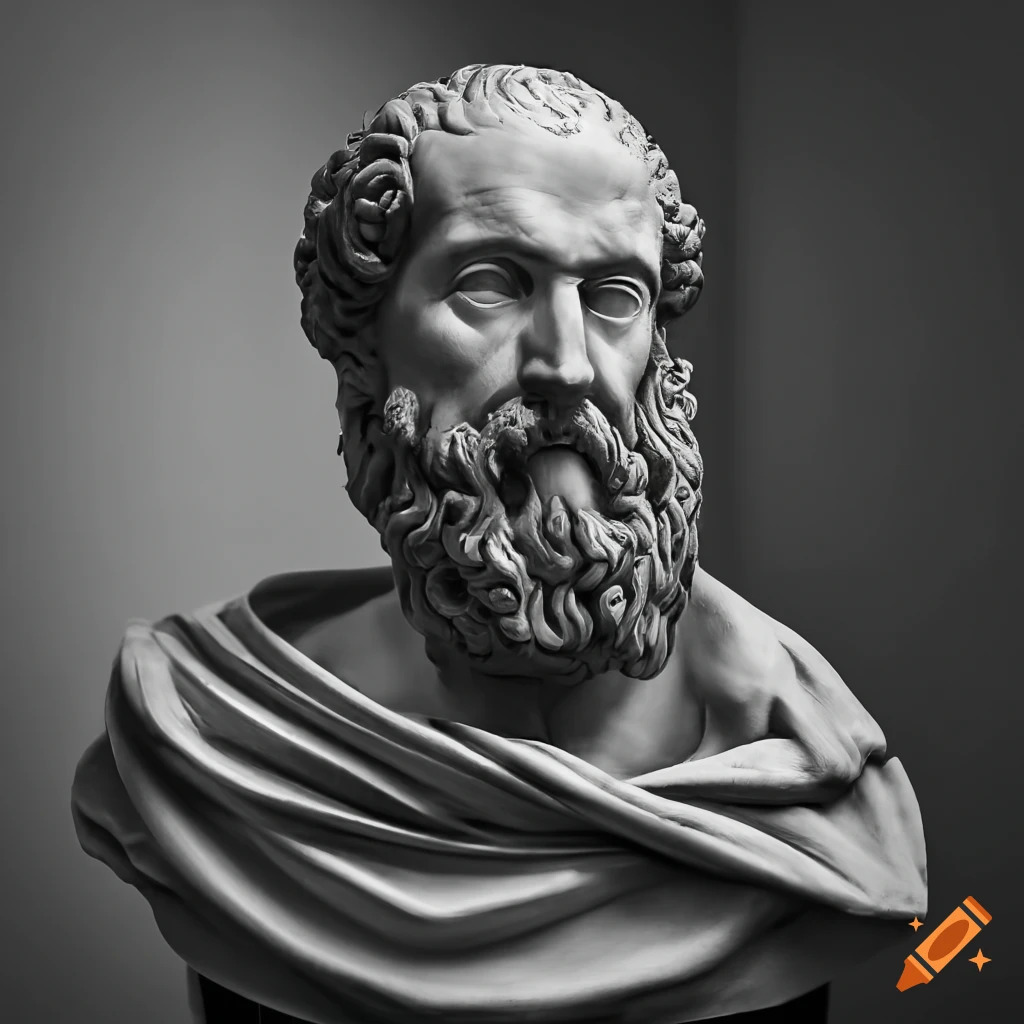
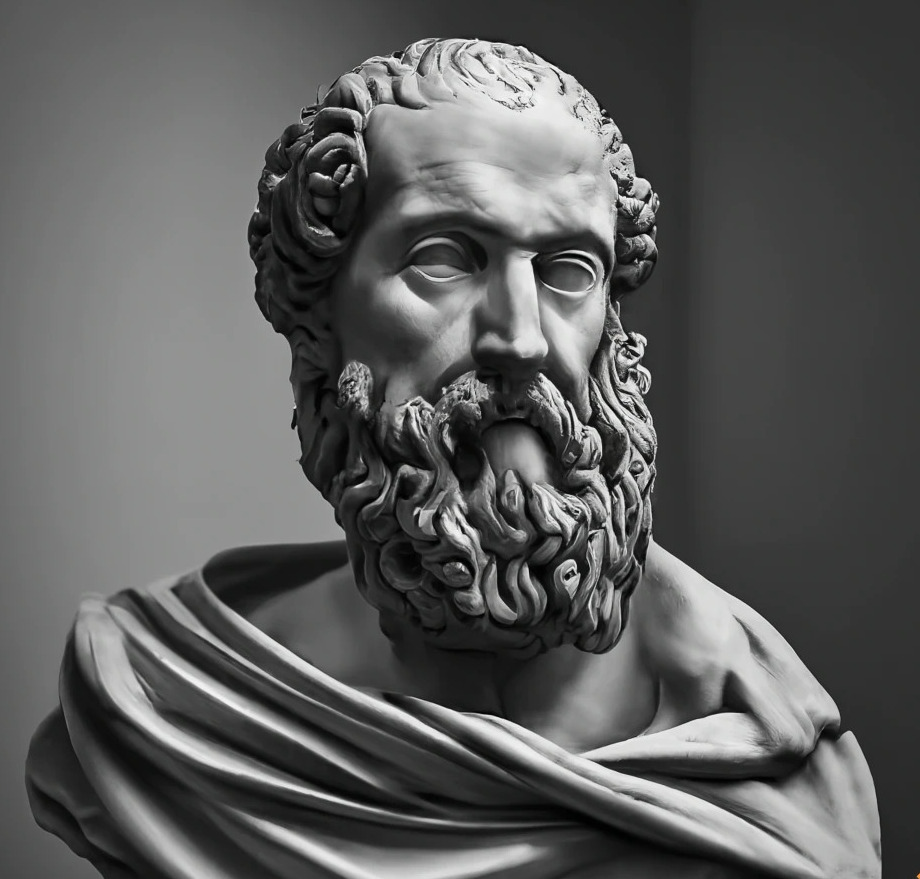
beatify

diff --git a/src/lib/widgets/landing/Featured.svelte b/src/lib/widgets/landing/Featured.svelte
@@ -207,7 +207,72 @@
 		</div>
 	</div>
 	<div class="container">
-		{#each gallery as imgSet}
+		<!-- [
+			{
+				subTitle: '8 types',
+				img: '/images/gallery/4.JPG',
+				title: 'Full set of elements',
+				altText: 'Full set of elements'
+			},
+			{
+				subTitle: '4 different rolls',
+				img: '/images/gallery/2.JPG',
+				title: ' Player tablets',
+				altText: 'Placeholder image 4'
+			}
+		] -->
+			{#each gallery as imgSet}
+			<div class="showcase-component">
+				<div class="_4-rem-showcase-divider"></div>
+				<div class="related-showcase-wrap">
+					<div
+						id="w-node-_1cf0c83d-a3ae-fc7b-ff9e-a4a3d330e65d-b4ea5f9d"
+						class="showcase-half-img-wrap"
+					>
+						<a href="/" class="project-link w-inline-block">
+							<div class="project-thumbnail-wrapper">
+								<img
+									src='/images/gallery/4.JPG'
+									loading="lazy"
+									alt='Full set of elements'
+									class="project-thumbnail"
+								/>
+								<div class="image-mask"></div>
+							</div>
+							<div class="">
+								<div class="project-info-block">
+									<div class="medium-text">Full set of elements</div>
+									<div class="standard-text black-50">8 types</div>
+								</div>
+							</div>
+						</a>
+					</div>
+					<div
+						id="w-node-_1cf0c83d-a3ae-fc7b-ff9e-a4a3d330e669-b4ea5f9d"
+						class="showcase-half-img-wrap"
+					>
+						<a href="/" class="project-link w-inline-block">
+							<div class="project-thumbnail-wrapper">
+								<img
+									src='/images/gallery/2.JPG'
+									loading="lazy"
+									alt='Player tablets'
+									class="project-thumbnail"
+								/>
+								<div class="image-mask"></div>
+							</div>
+							<div class="">
+								<div class="project-info-block">
+									<div class="medium-text">Player tablets</div>
+									<div class="standard-text black-50">4 different rolls</div>
+								</div>
+							</div>
+						</a>
+					</div>
+				</div>
+			</div>
+		{/each}
+		<!-- {#each gallery as imgSet}
 			<div class="showcase-component">
 				<div class="_4-rem-showcase-divider"></div>
 				<div class="related-showcase-wrap">
@@ -257,7 +322,7 @@
 					</div>
 				</div>
 			</div>
-		{/each}
+		{/each} -->
 	</div>
 </section>
 

diff --git a/src/lib/widgets/landing/hero/ui/Hero.svelte b/src/lib/widgets/landing/hero/ui/Hero.svelte
@@ -52,7 +52,7 @@
 				Seneca, Epictetus, Marcus Aurelius, and Gaius Musonius Rufus.
 			</div>
 		</div>
-		<a href="#expertise" class="button mobile-hero w-button">Lorem Ipsum jest</a>
+		<!-- <a href="#expertise" class="button mobile-hero w-button">Lorem Ipsum jest</a> -->
 	</div>
 	<div class="service-intro-list hide-mobile">
 		<div class="_12-column-grid">

diff --git a/src/lib/widgets/landing/Philosophers.svelte b/src/lib/widgets/landing/Philosophers.svelte
@@ -36,7 +36,7 @@
 			index: '(04)',
 			description:
 				'The teacher of Epictetus and one of the strictest Stoics. He taught philosophy as a practice of everyday life and moral discipline.',
-			image: 'images/philosofers/musonius/2.jpg',
+			image: 'images/philosofers/rufus/2.jpg',
 			imageAlt: 'Gaius Musonius Rufus'
 		}
 	];
